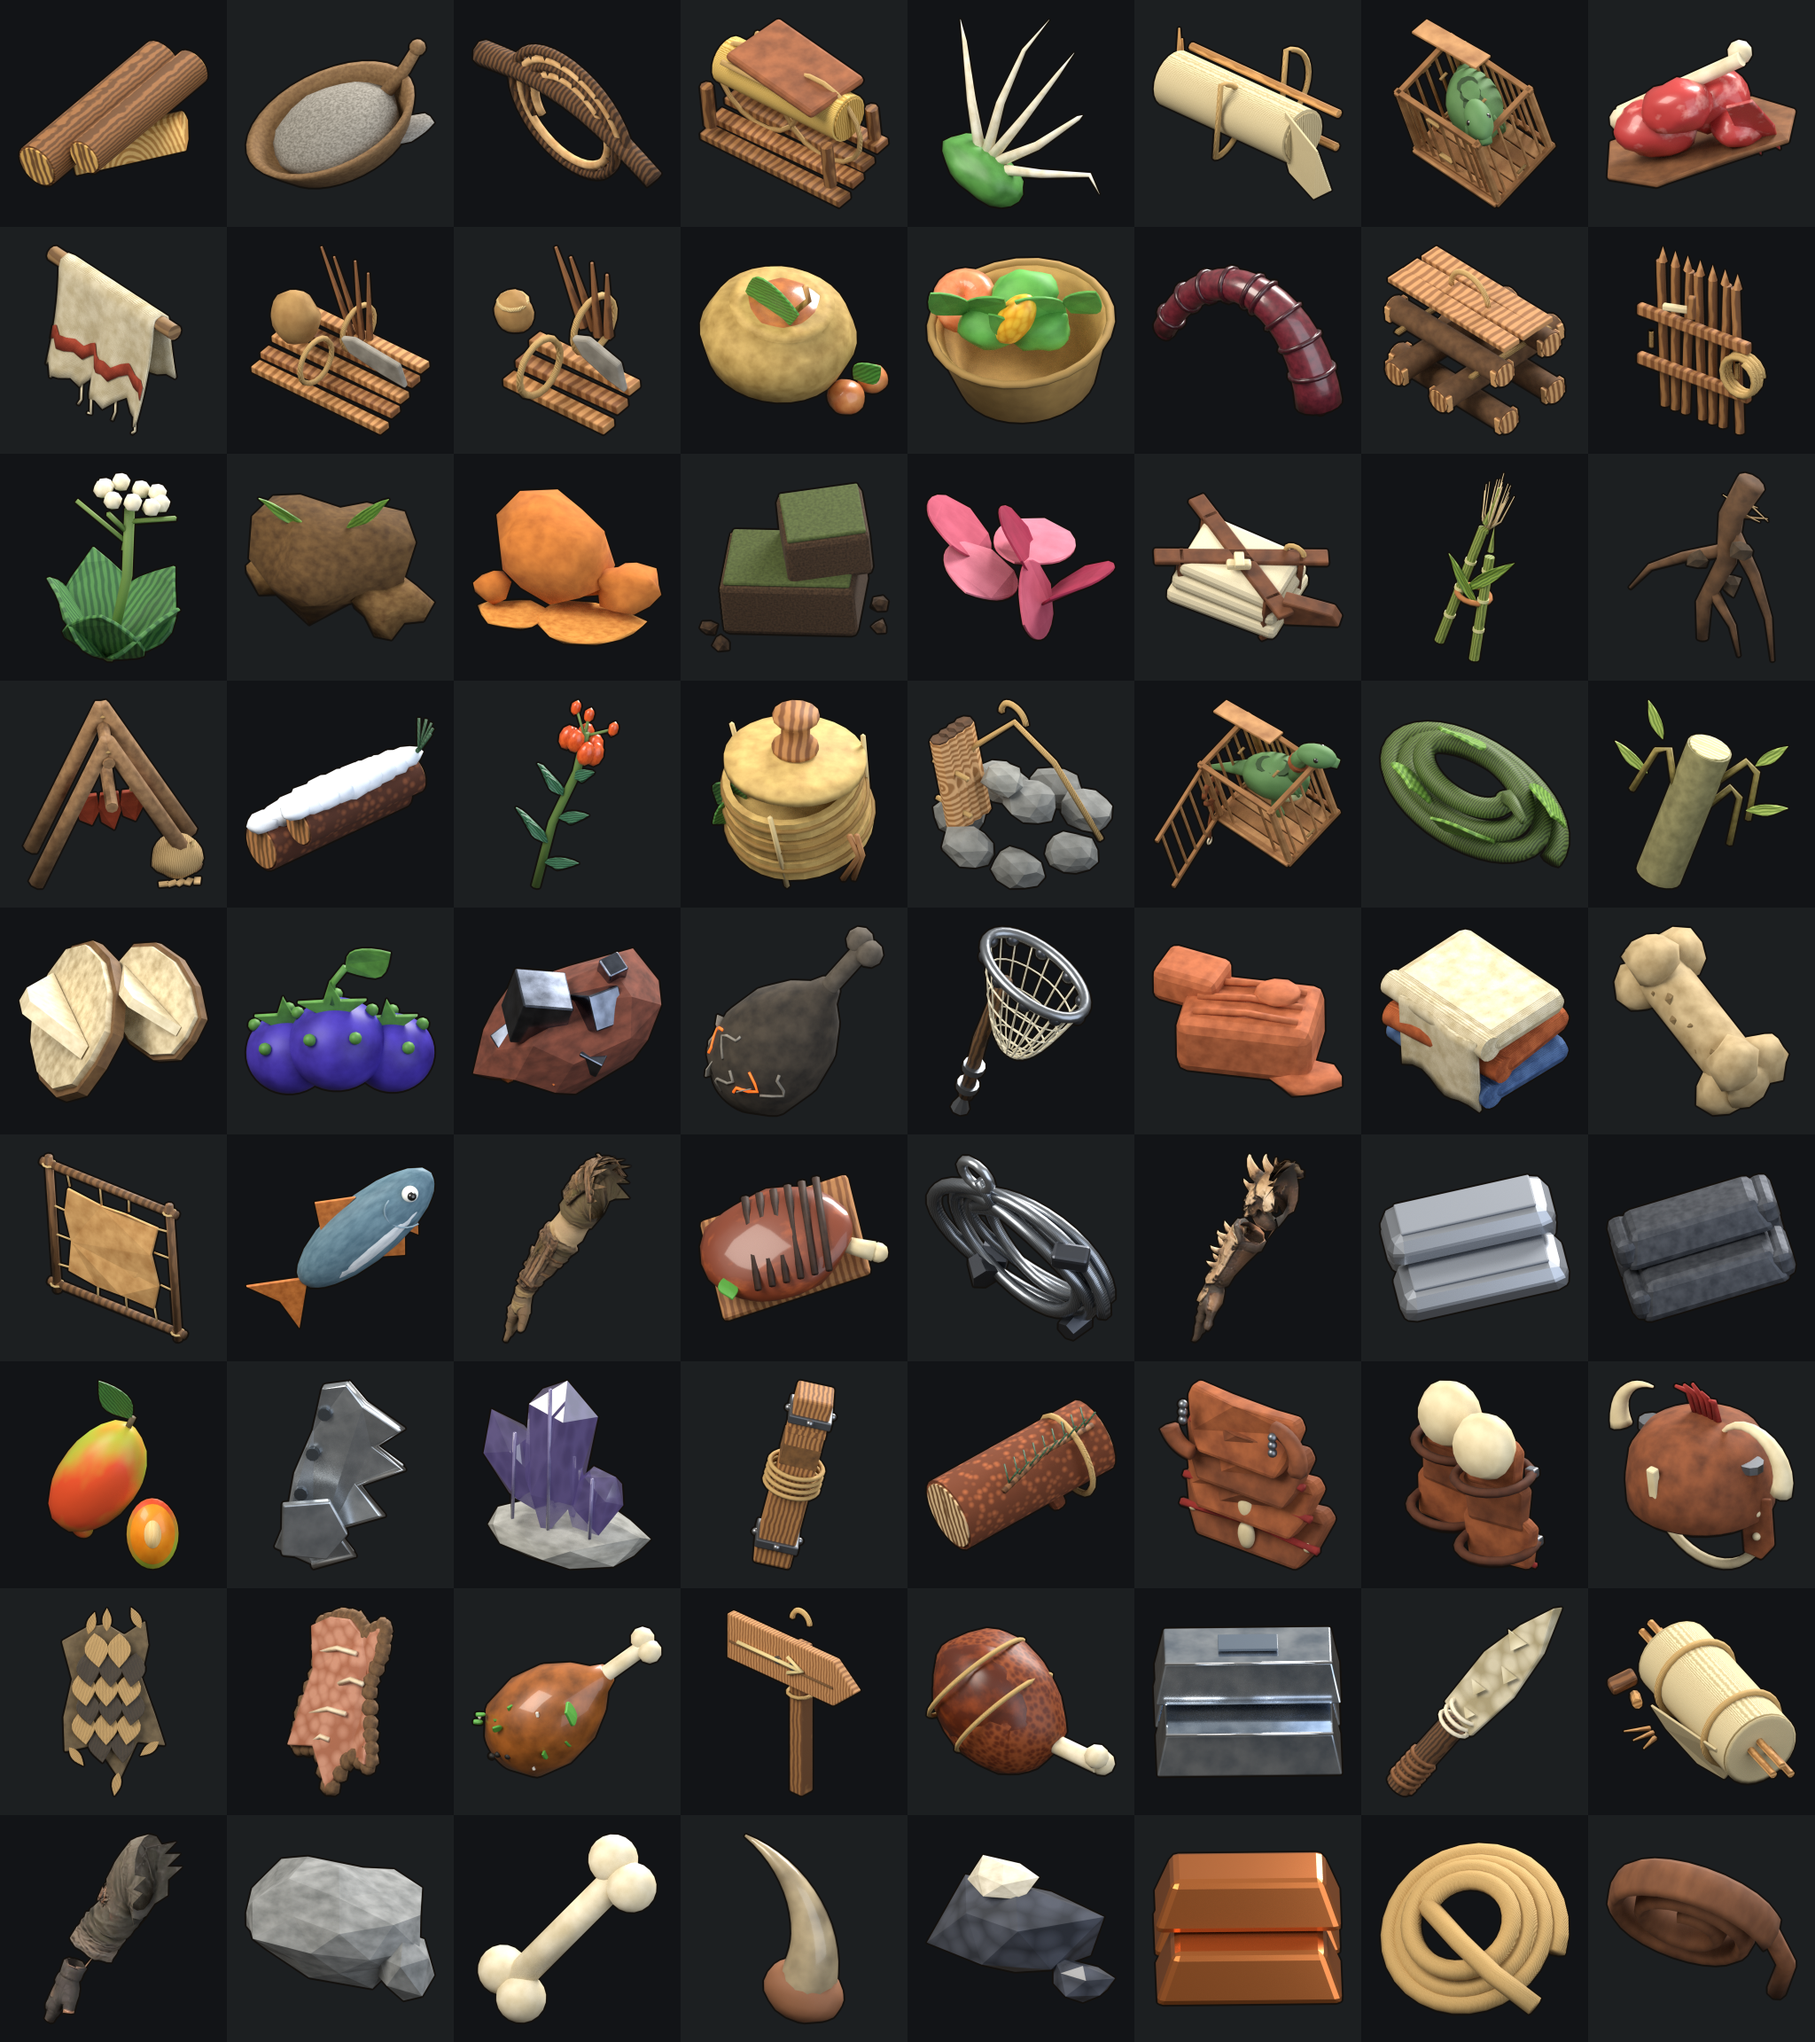
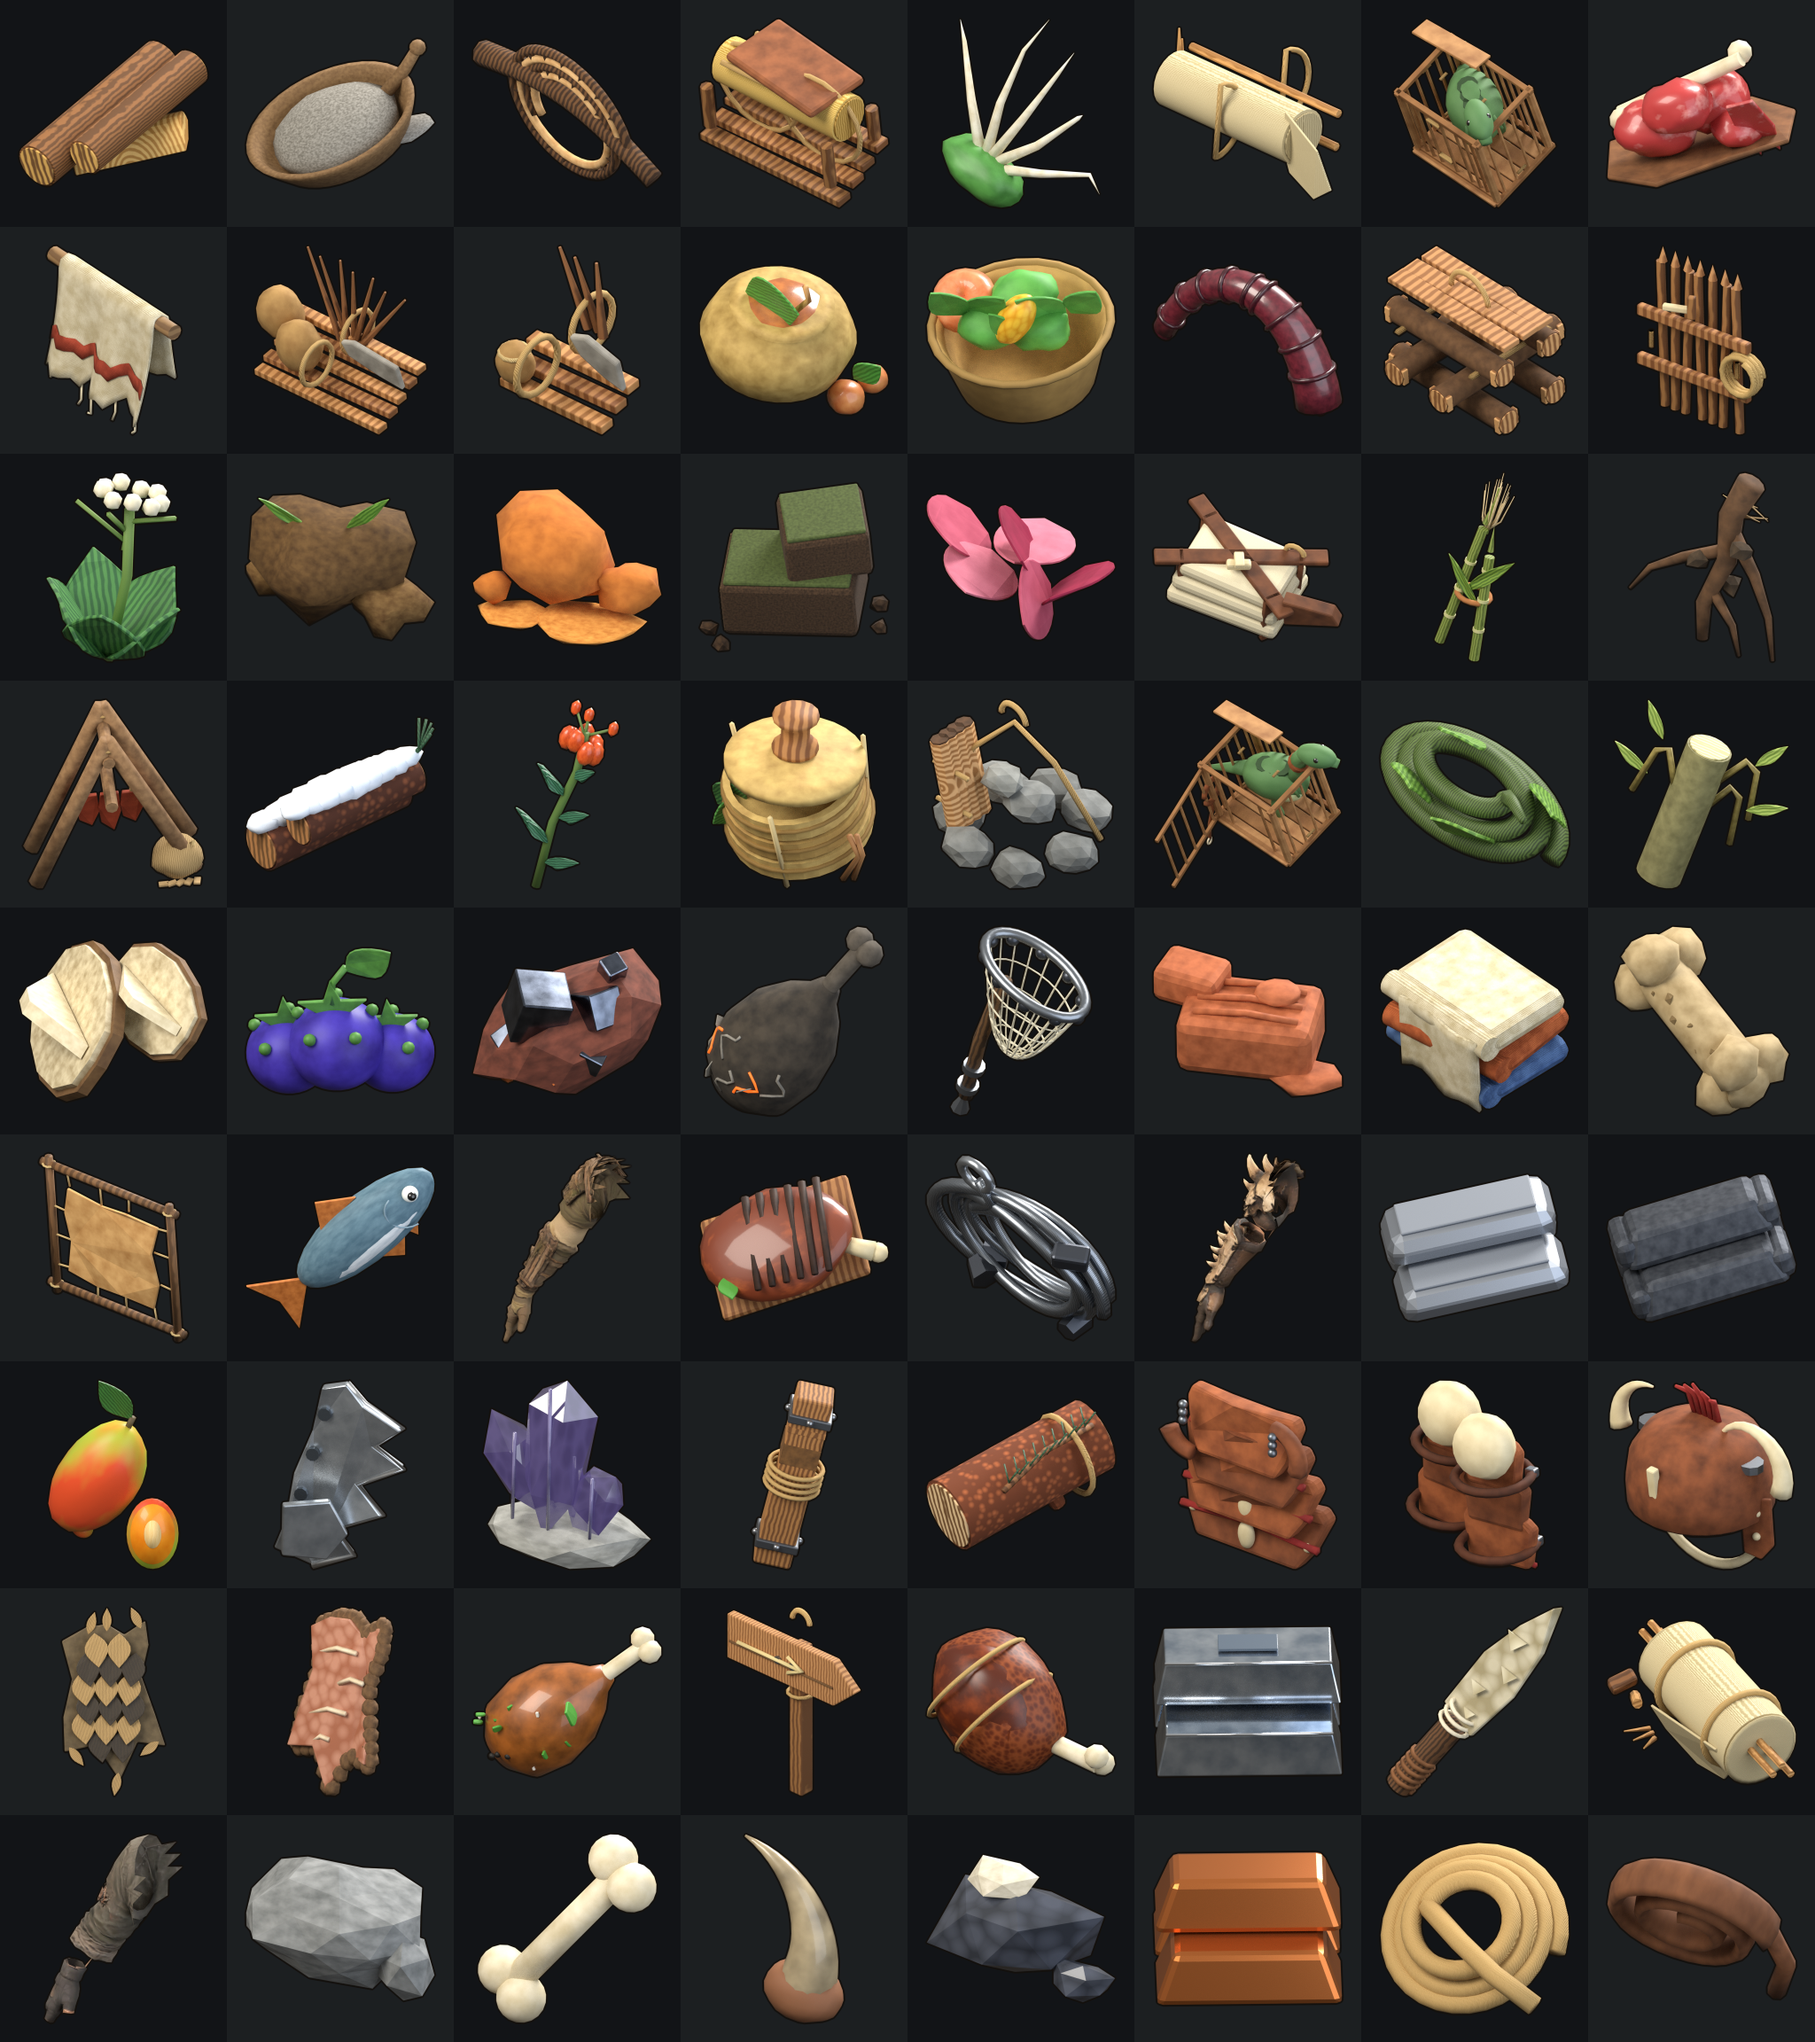
ICONS2: field_large_kit and field_small_kit differ at slot size (seven stakes and two pouches vs three and one, pouches rest on the planks)

Changed region(s): [[0.125, 0.125, 0.3438, 0.2188]]

diff --git a/tools/blender/items/camp.py b/tools/blender/items/camp.py
@@ -459,22 +459,24 @@ def canvas_tent_kit():
     upright()
 
 
-def _field_kit(scale, n_planks):
-    """Furrow stakes and frame planks in a bundle, a seed pouch tied on and a hoe blade strapped to
-    the side. The large kit is longer, with more planks and a heavier blade."""
+def _field_kit(scale, n_planks, n_stakes, pouches):
+    """Furrow stakes and frame planks in a bundle, seed pouches tied on and a hoe blade strapped to
+    the side. The large kit is longer, with more planks, twice the stakes and two pouches (the two
+    looked alike at slot size)."""
     w = wood("#a87444", "#7a4a24")
     w2 = wood("#c48d55", "#93602f")
     for i in range(n_planks):
         box((1.7 * scale, 0.16, 0.09), loc=(0, (i - (n_planks - 1) / 2) * 0.19, -0.55 + i * 0.1),
             rot=(0, 0, 1.2 * (i % 2)), m=w if i % 2 else w2, bev=0.012)
-    for i in range(4):  # stakes
+    for i in range(n_stakes):
         a = -18 + 9 * i
-        cyl(0.05, 1.2 * scale, loc=(0.15 * (i - 1.5), 0.32, 0.35), rot=(6 * (i % 2), a, 0), m=wood("#8a5a33", "#5e3a1e"),
-            segs=6, r2=0.015)
-    # Seed pouch, tied on.
+        cyl(0.05, 1.2 * scale, loc=(0.15 * (i - (n_stakes - 1) / 2), 0.32, 0.35), rot=(6 * (i % 2), a, 0),
+            m=wood("#8a5a33", "#5e3a1e"), segs=6, r2=0.015)
+    # Seed pouches, tied on and resting on the planks.
     pouch = hidem("#b08a52", "#8a6434")
-    blob(0.26 * scale, loc=(-0.45, -0.2, 0.3), scl=(1.0, 0.9, 1.15), m=pouch, amp=0.12)
-    _lash(-0.45, -0.2, 0.42, rope_m("#d7c08a"), r=0.13)
+    for x, y, z in pouches:
+        blob(0.26 * scale, loc=(x, y, z), scl=(1.0, 0.9, 1.15), m=pouch, amp=0.12)
+        _lash(x, y, z + 0.12, rope_m("#d7c08a"), r=0.13)
     # A hoe blade strapped against the planks.
     prism([(-0.05, 0.3), (0.12, 0.34), (0.62 * scale, 0.15), (0.68 * scale, -0.15), (0.4 * scale, -0.05), (0.05, 0.12)],
           0.08, loc=(0.35, -0.24, 0.1), rot=(0, 0, 10), m=stone("#9a9488", "#6a645a"), bev=0.02)
@@ -489,13 +491,13 @@ def _field_kit(scale, n_planks):
 def field_large_kit():
     """Large field kit: long frame planks, a bundle of stakes, a seed pouch and a heavy hoe blade,
     all lashed with rope."""
-    _field_kit(1.15, 5)
+    _field_kit(1.15, 5, 7, [(-0.45, -0.2, -0.07), (-0.95, 0.05, 0.04)])
     upright()  # no-op unless the silhouette is wider than a slot can lift (<= 1.3:1)
 
 
 def field_small_kit():
     """Small field kit: a short bundle of frame planks and three stakes, a small seed pouch tied on."""
-    _field_kit(0.7, 3)
+    _field_kit(0.7, 3, 3, [(-0.45, -0.2, -0.3)])
     upright()  # no-op unless the silhouette is wider than a slot can lift (<= 1.3:1)
 
 
